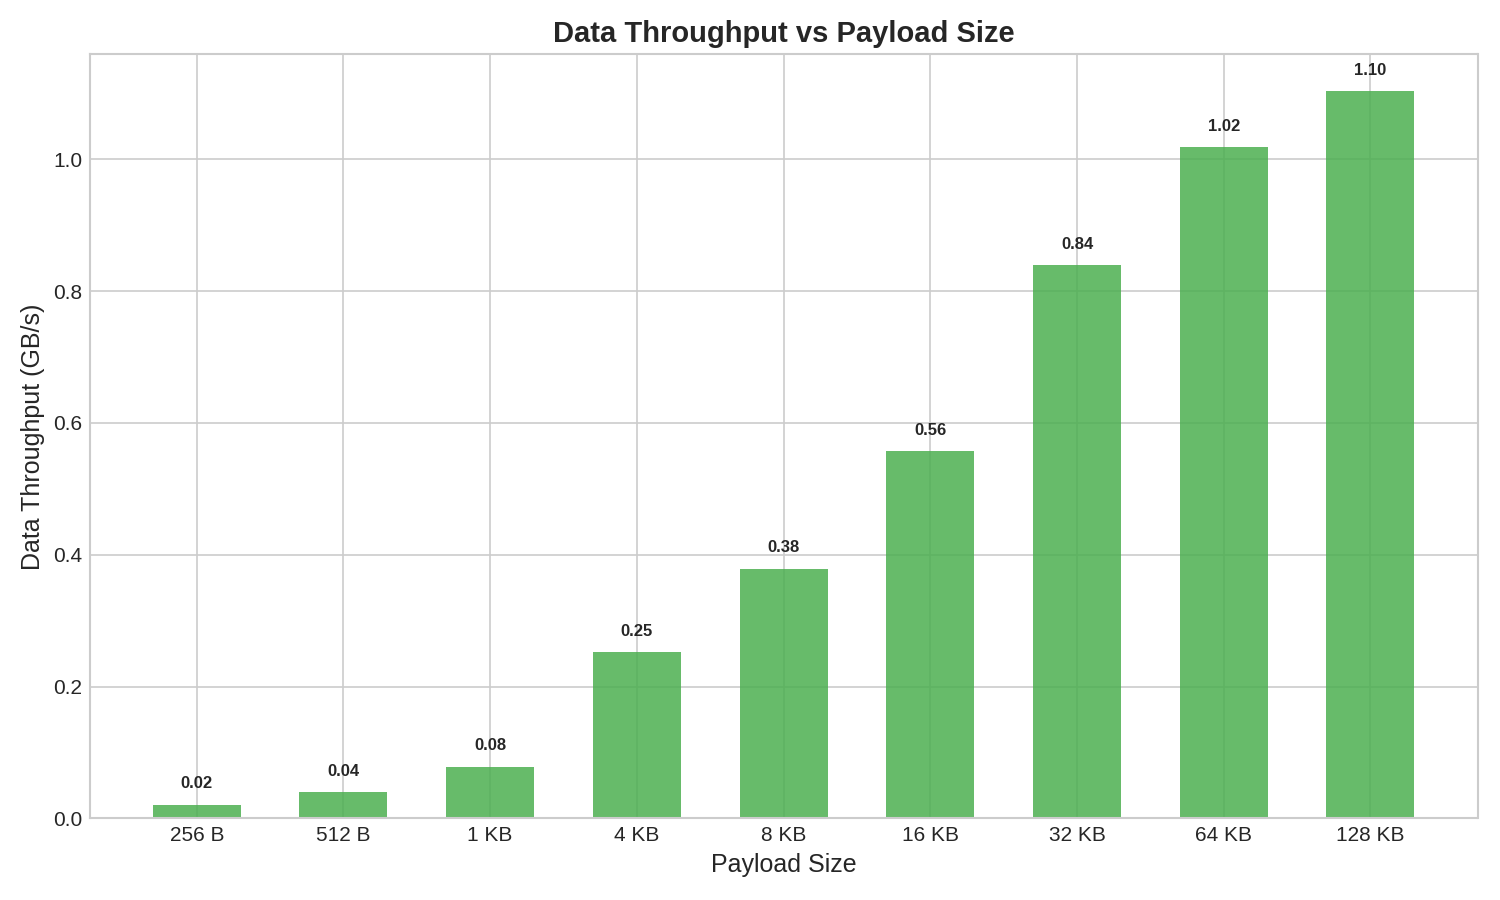
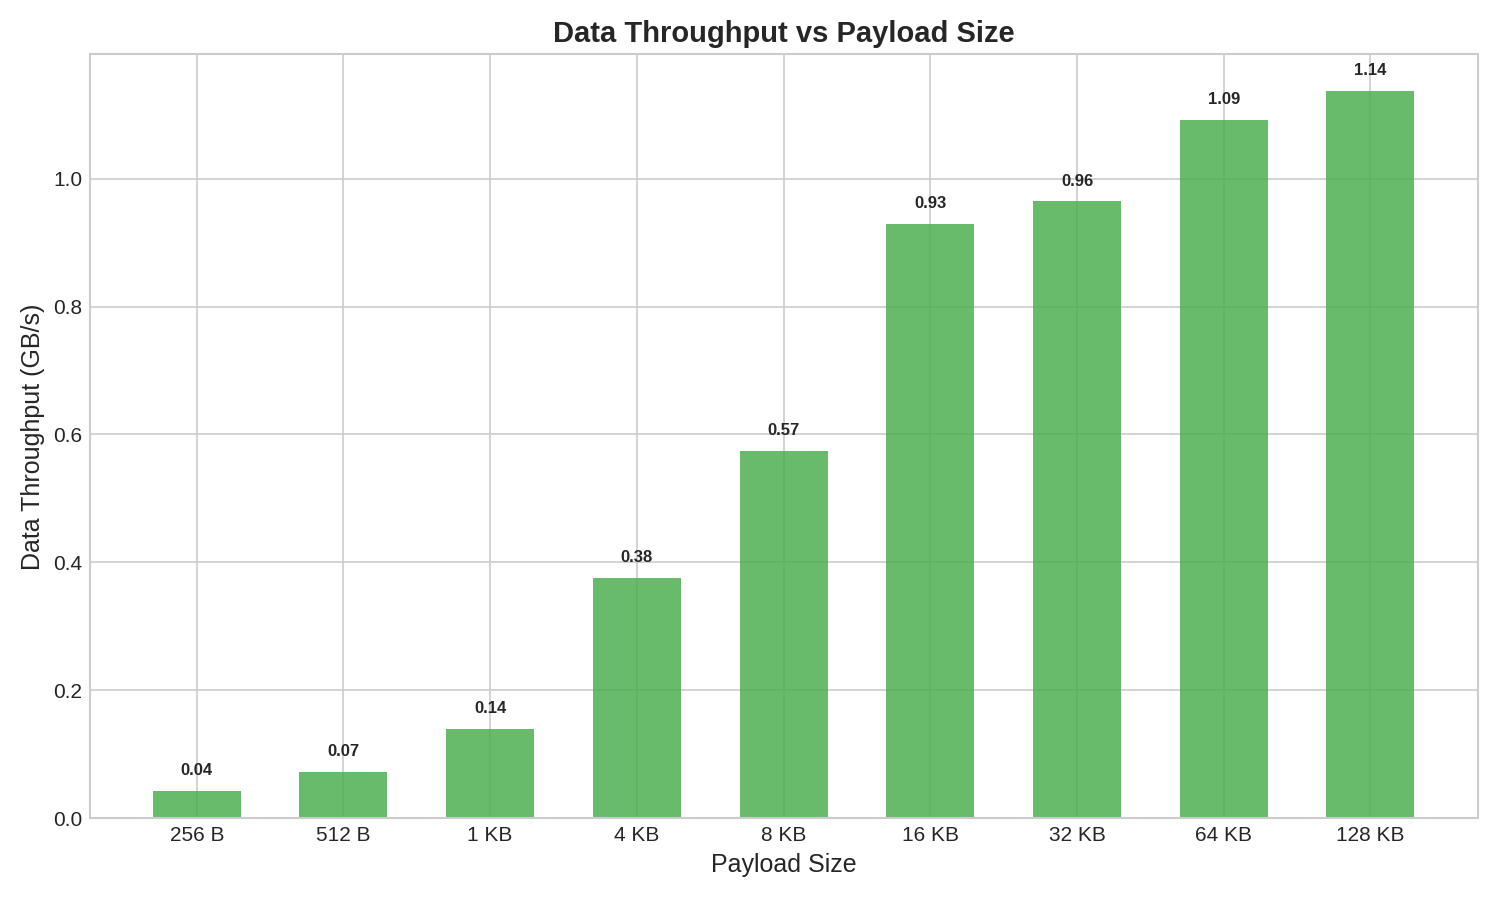
docs: fix data throughput calculation (#214)

diff --git a/crates/benchmark/src/main.rs b/crates/benchmark/src/main.rs
@@ -17,7 +17,6 @@ use narwhal_protocol::Nid;
 use narwhal_protocol::{AclAction, AclType, QoS};
 use narwhal_util::pool::Pool;
 use narwhal_util::string_atom::StringAtom;
-use rand::prelude::*;
 use std::net::SocketAddr;
 use std::str::FromStr;
 use tracing::{error, info, warn};
@@ -48,9 +47,9 @@ struct Cli {
   #[arg(short, long, default_value = "30s", value_parser = parse_duration)]
   duration: Duration,
 
-  /// Maximum size of message payload in bytes
+  /// Size of message payload in bytes
   #[arg(long, default_value = "16384")]
-  max_payload_size: usize,
+  payload_size: usize,
 }
 
 /// Parse duration from string (supports: 30s, 5m, 1h)
@@ -338,7 +337,7 @@ async fn broadcast_messages(
   clients: &[C2sClient],
   channels: &[StringAtom],
   duration: Duration,
-  max_payload_size: usize,
+  payload_size: usize,
 ) -> (u64, hdrhistogram::Histogram<u64>) {
   info!("broadcasting messages across channels for {:?}...", duration);
 
@@ -355,7 +354,7 @@ async fn broadcast_messages(
     let max_inflight_requests =
       client.session_info().await.ok().map(|(info, _)| info.max_inflight_requests).unwrap_or(1);
 
-    let client_pool = Pool::new(max_inflight_requests as usize, max_payload_size);
+    let client_pool = Pool::new(max_inflight_requests as usize, payload_size);
     let client_hist = arc_histogram.clone();
 
     let task = compio::runtime::spawn(async move {
@@ -370,7 +369,7 @@ async fn broadcast_messages(
         let task_client = client.clone();
         let task_payload_pool = client_pool.clone();
 
-        task_set.push(broadcast_message(task_channel, task_client, task_payload_pool, max_payload_size));
+        task_set.push(broadcast_message(task_channel, task_client, task_payload_pool, payload_size));
 
         channel_idx += 1;
       }
@@ -398,7 +397,7 @@ async fn broadcast_messages(
 
           channel_idx += 1;
 
-          task_set.push(broadcast_message(task_channel, task_client, task_payload_pool, max_payload_size));
+          task_set.push(broadcast_message(task_channel, task_client, task_payload_pool, payload_size));
         }
       }
 
@@ -426,11 +425,10 @@ async fn broadcast_message(
   channel: StringAtom,
   client: C2sClient,
   payload_pool: Pool,
-  max_payload_size: usize,
+  payload_size: usize,
 ) -> anyhow::Result<u64> {
   let mut payload_buffer = payload_pool.acquire_buffer().await;
-  let random_size = rand::rng().random_range(1..=max_payload_size);
-  let payload = payload_buffer.freeze(random_size);
+  let payload = payload_buffer.freeze(payload_size);
 
   let start = Instant::now();
 
@@ -455,7 +453,7 @@ async fn run_benchmark(cli: Cli) -> Result<BenchmarkMetrics> {
   );
 
   // Print additional information
-  info!("max payload size: {} bytes", cli.max_payload_size);
+  info!("payload size: {} bytes", cli.payload_size);
 
   let start_time = Instant::now();
 
@@ -532,7 +530,7 @@ async fn perform_benchmark(cli: &Cli, metrics: &mut BenchmarkMetrics) -> Result<
 
   // Only producers broadcast messages (round-robin across all channels)
   let (messages_sent, latency_histogram) =
-    broadcast_messages(&producer_clients, &channels, cli.duration, cli.max_payload_size).await;
+    broadcast_messages(&producer_clients, &channels, cli.duration, cli.payload_size).await;
   metrics.total_messages_sent = messages_sent;
   metrics.latency_histogram = Some(latency_histogram);
 

diff --git a/docs/BENCHMARK.md b/docs/BENCHMARK.md
@@ -32,7 +32,7 @@ cargo build --release -p narwhal-benchmark
   --producers 1 \
   --consumers 1 \
   --duration 1m \
-  --max-payload-size 256
+  --payload-size 256
 ```
 
 ### Available Options
@@ -42,7 +42,7 @@ cargo build --release -p narwhal-benchmark
 - `-c, --consumers <N>`: Number of consumer clients (default: 10)
 - `-n, --channels <N>`: Number of channels to create (default: 1)
 - `-d, --duration <TIME>`: Duration to run the benchmark (supports: 30s, 5m, 1h)
-- `--max-payload-size <BYTES>`: Maximum size of message payload in bytes (default: 16384)
+- `--payload-size <BYTES>`: Size of message payload in bytes (default: 16384)
 - `-w, --worker-threads <N>`: Number of worker threads to use (default: 0, auto-detect)
 
 ## Results
@@ -53,15 +53,15 @@ All benchmarks were run with 1 producer and 1 consumer for 60 seconds, averaged 
 
 | Payload Size | Throughput (msg/s) | Data Throughput | Mean Latency | P50 | P95 | P99 | Avg Total Messages | Runs |
 |--------------|-------------------:|----------------:|-------------:|----:|----:|----:|-------------------:|-----:|
-| 256 B        |            162,843 |       41.7 MB/s |        0.60ms | 0.60ms | 0.79ms | 0.93ms |          9,800,844 | 10/10 |
-| 512 B        |            157,430 |       20.2 MB/s |        0.62ms | 0.61ms | 0.90ms | 1.03ms |          9,475,422 | 10/10 |
-| 1 KB         |            153,214 |       78.4 MB/s |        0.65ms | 0.63ms | 0.83ms | 1.00ms |          9,223,401 | 10/10 |
-| 4 KB         |            123,012 |      251.9 MB/s |        0.81ms | 0.80ms | 0.89ms | 1.06ms |          7,403,481 | 10/10 |
-| 8 KB         |             92,529 |      379.0 MB/s |        1.08ms | 1.08ms | 1.17ms | 1.29ms |          5,569,542 | 10/10 |
-| 16 KB        |             68,017 |      557.2 MB/s |        1.48ms | 1.48ms | 1.61ms | 1.84ms |          4,110,314 | 10/10 |
-| 32 KB        |             51,197 |      838.8 MB/s |        1.93ms | 1.76ms | 2.03ms | 2.64ms |          3,111,557 | 10/10 |
-| 64 KB        |             31,085 |       1.02 GB/s |        3.16ms | 2.84ms | 4.07ms | 5.08ms |          1,897,140 | 10/10 |
-| 128 KB       |             16,841 |       1.10 GB/s |        5.83ms | 5.88ms | 7.32ms | 8.05ms |          1,029,126 | 10/10 |
+| 256 B        |            167,474 |       42.9 MB/s |        0.58ms | 0.58ms | 0.77ms | 0.90ms |         10,079,529 | 10/10 |
+| 512 B        |            142,951 |       73.2 MB/s |        0.73ms | 0.72ms | 0.95ms | 1.15ms |          8,605,220 | 10/10 |
+| 1 KB         |            136,912 |      140.2 MB/s |        0.74ms | 0.71ms | 0.84ms | 0.98ms |          8,245,518 | 10/10 |
+| 4 KB         |             91,630 |      375.3 MB/s |        1.10ms | 1.09ms | 1.21ms | 1.32ms |          5,515,447 | 10/10 |
+| 8 KB         |             70,099 |      574.2 MB/s |        1.41ms | 1.40ms | 1.59ms | 1.78ms |          4,241,880 | 10/10 |
+| 16 KB        |             56,671 |      928.5 MB/s |        1.75ms | 1.64ms | 1.89ms | 2.28ms |          3,424,357 | 10/10 |
+| 32 KB        |             29,425 |      964.2 MB/s |        3.40ms | 2.85ms | 3.34ms | 3.94ms |          1,784,276 | 10/10 |
+| 64 KB        |             16,648 |       1.09 GB/s |        5.94ms | 4.81ms | 6.72ms | 7.42ms |          1,014,276 | 10/10 |
+| 128 KB       |              8,675 |       1.14 GB/s |       11.33ms | 11.82ms | 13.02ms | 18.03ms |            529,619 | 10/10 |
 
 ### Visual Performance Analysis
 
@@ -69,7 +69,7 @@ All benchmarks were run with 1 producer and 1 consumer for 60 seconds, averaged 
 
 ![Message Throughput vs Payload Size](benchmark_msg_throughput.png)
 
-This graph shows how message throughput (messages per second) varies with payload size. Each data point is the average of 10 runs. Peak performance is achieved with small payloads, delivering over 162,000 messages per second on average.
+This graph shows how message throughput (messages per second) varies with payload size. Each data point is the average of 10 runs. Peak performance is achieved with 256 B payloads, delivering over 167,000 messages per second on average.
 
 #### Latency
 
@@ -81,20 +81,20 @@ This graph compares Mean, P50, P95, and P99 latency across different payload siz
 
 ![Data Throughput vs Payload Size](benchmark_data_throughput.png)
 
-This graph illustrates the actual data throughput. While message rate decreases with larger payloads, the overall bandwidth increases significantly, peaking at 1.10 GB/s with 128 KB payloads.
+This graph illustrates the actual data throughput. While message rate decreases with larger payloads, the overall bandwidth increases significantly, peaking at 1.14 GB/s with 128 KB payloads.
 
 ### Key Observations
 
-1. **Peak Throughput**: Achieved with 256 B payloads at ~162,843 messages/second
-2. **Consistent Low Latency**: Sub-1ms mean latency maintained across small payload sizes (256B - 1KB), sub-2ms up to 32KB
+1. **Peak Throughput**: Achieved with 256 B payloads at ~167,474 messages/second
+2. **Consistent Low Latency**: Sub-1ms mean latency maintained across small payload sizes (256B - 1KB), sub-2ms up to 16KB
 3. **Payload Size Impact**: As payload size increases, message throughput decreases while data throughput increases, which is expected due to larger data transfers
-4. **Latency Stability**: P99 latency remains very low across all payload sizes, indicating consistent performance
+4. **Latency Stability**: P99 latency remains low across all payload sizes, indicating consistent performance
 5. **Zero Errors**: All benchmarks completed without any message loss or errors
-6. **Peak Bandwidth**: 1.10 GB/s achieved at 128 KB payload
+6. **Peak Bandwidth**: 1.14 GB/s achieved at 128 KB payload
 
 ## Notes
 
 - All benchmarks were run on a local machine with the server and client on the same host
 - Network latency in production environments will add to the observed latency values
-- The benchmark tool generates random payloads up to the specified maximum size
+- The benchmark tool uses fixed-size payloads as specified by the `--payload-size` flag
 - Results may vary based on hardware, OS, and system load
